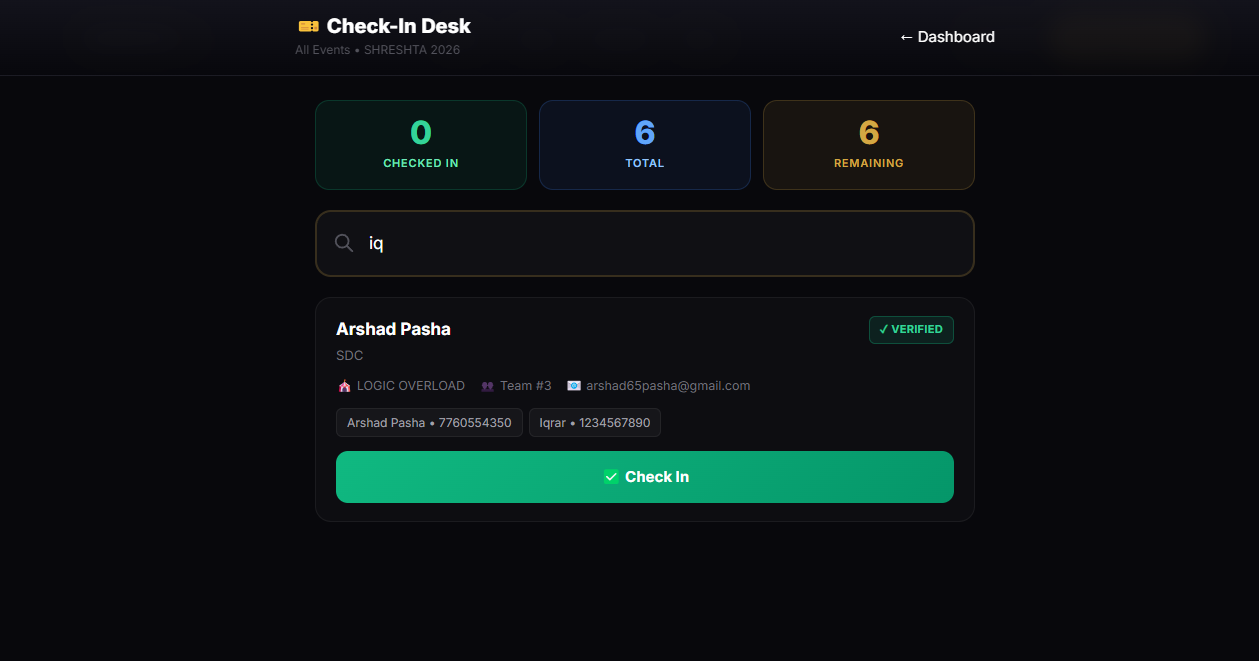
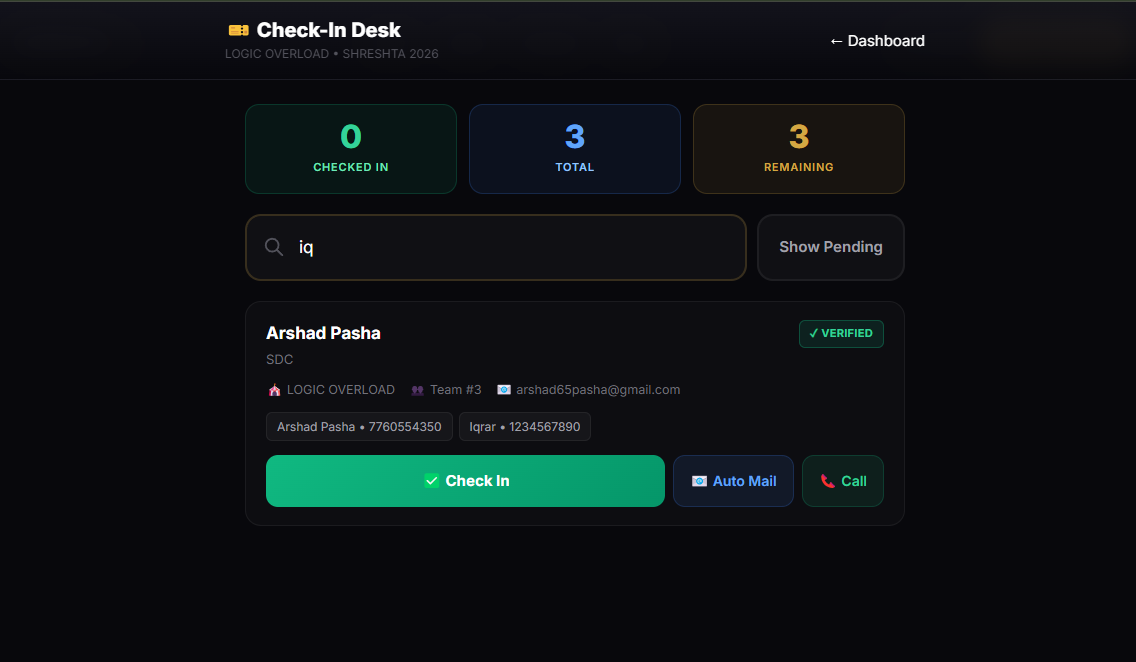
almoret added teh imf

diff --git a/src/app/admin/scanner/page.tsx b/src/app/admin/scanner/page.tsx
@@ -20,6 +20,8 @@ export default function CheckInPage() {
     const [coordEventName, setCoordEventName] = useState<string | null>(null);
     const searchRef = useRef<HTMLInputElement>(null);
     const router = useRouter();
+    const [showUncheckedIn, setShowUncheckedIn] = useState(false);
+    const [sendingEmail, setSendingEmail] = useState<string | null>(null);
 
     // Auth
     useEffect(() => {
@@ -75,21 +77,25 @@ export default function CheckInPage() {
     }, [isAuthenticated]);
 
     // Search filter
-    const filtered = search.length >= 2
-        ? registrations.filter(r => {
-            const q = search.toLowerCase();
-            const memberMatch = r.members?.some(m =>
-                m.name.toLowerCase().includes(q) || m.phone.includes(q)
-            );
-            return (
-                memberMatch ||
-                r.email?.toLowerCase().includes(q) ||
-                r.collegeName?.toLowerCase().includes(q) ||
-                r.eventName?.toLowerCase().includes(q) ||
-                String(r.teamNumber).includes(q)
-            );
-        })
-        : [];
+    const filtered = registrations.filter(r => {
+        if (showUncheckedIn && r.checkedIn) return false;
+
+        if (search.length < 2) {
+            return showUncheckedIn ? true : false;
+        }
+
+        const q = search.toLowerCase();
+        const memberMatch = r.members?.some(m =>
+            m.name.toLowerCase().includes(q) || m.phone.includes(q)
+        );
+        return (
+            memberMatch ||
+            r.email?.toLowerCase().includes(q) ||
+            r.collegeName?.toLowerCase().includes(q) ||
+            r.eventName?.toLowerCase().includes(q) ||
+            String(r.teamNumber).includes(q)
+        );
+    });
 
     // Sort: not checked in first, then by name
     const sorted = [...filtered].sort((a, b) => {
@@ -133,6 +139,30 @@ export default function CheckInPage() {
             });
         } catch (err) {
             console.error("Undo failed:", err);
+        }
+    };
+
+    const handleSendReminder = async (reg: Registration) => {
+        setSendingEmail(reg.id);
+        try {
+            const res = await fetch("/api/send-email", {
+                method: "POST",
+                headers: { "Content-Type": "application/json" },
+                body: JSON.stringify({
+                    type: "reminder",
+                    to: reg.email,
+                    subject: `Urgent Reminder: SHRESHTA 2026 - ${reg.eventName || 'Event'}`,
+                    participantName: reg.members?.[0]?.name || "Participant",
+                    eventName: reg.eventName || 'Event'
+                }),
+            });
+            if (!res.ok) throw new Error("Failed to send");
+            alert("Auto-reminder sent successfully to " + reg.email);
+        } catch (err: any) {
+            console.error(err);
+            alert("Failed to send reminder email. Please ensure Resend API is active.");
+        } finally {
+            setSendingEmail(null);
         }
     };
 
@@ -557,31 +587,50 @@ export default function CheckInPage() {
                         </div>
                     </div>
 
-                    {/* Search */}
-                    <div className="search-box">
-                        <svg className="search-icon" width="22" height="22" fill="none" stroke="currentColor" viewBox="0 0 24 24">
-                            <path strokeLinecap="round" strokeLinejoin="round" strokeWidth={2} d="M21 21l-6-6m2-5a7 7 0 11-14 0 7 7 0 0114 0z" />
-                        </svg>
-                        <input
-                            ref={searchRef}
-                            type="text"
-                            className="search-input"
-                            value={search}
-                            onChange={(e) => setSearch(e.target.value)}
-                            placeholder="Type name, phone, or college..."
-                            autoComplete="off"
-                        />
+                    {/* Search & Actions */}
+                    <div className="search-actions" style={{ display: "flex", gap: "10px", marginBottom: "20px" }}>
+                        <div className="search-box" style={{ flex: 1, margin: 0 }}>
+                            <svg className="search-icon" width="22" height="22" fill="none" stroke="currentColor" viewBox="0 0 24 24">
+                                <path strokeLinecap="round" strokeLinejoin="round" strokeWidth={2} d="M21 21l-6-6m2-5a7 7 0 11-14 0 7 7 0 0114 0z" />
+                            </svg>
+                            <input
+                                ref={searchRef}
+                                type="text"
+                                className="search-input"
+                                value={search}
+                                onChange={(e) => setSearch(e.target.value)}
+                                placeholder="Type name, phone, or college..."
+                                autoComplete="off"
+                            />
+                        </div>
+                        <button
+                            onClick={() => setShowUncheckedIn(!showUncheckedIn)}
+                            style={{
+                                padding: "0 20px",
+                                background: showUncheckedIn ? "rgba(212,168,67,0.15)" : "rgba(255,255,255,0.03)",
+                                color: showUncheckedIn ? "#d4a843" : "#a1a1aa",
+                                border: `2px solid ${showUncheckedIn ? "rgba(212,168,67,0.4)" : "rgba(255,255,255,0.06)"}`,
+                                borderRadius: "16px",
+                                cursor: "pointer",
+                                minWidth: "max-content",
+                                fontWeight: 600,
+                                fontSize: "15px",
+                                transition: "all 0.2s"
+                            }}
+                        >
+                            {showUncheckedIn ? "✓ Pending" : "Show Pending"}
+                        </button>
                     </div>
 
                     {/* Results */}
-                    {search.length < 2 ? (
+                    {search.length < 2 && !showUncheckedIn ? (
                         <div className="search-hint">
-                            Type at least 2 characters to search participants
+                            Type at least 2 characters to search participants or click "Show Pending"
                         </div>
                     ) : sorted.length === 0 ? (
                         <div className="no-results">
                             <span style={{ fontSize: "40px" }}>🔍</span>
-                            <p>No participants found for &quot;{search}&quot;</p>
+                            <p>No participants found.</p>
                         </div>
                     ) : (
                         <div className="results-list">
@@ -638,19 +687,68 @@ export default function CheckInPage() {
                                                 </button>
                                             </>
                                         ) : (
-                                            <button
-                                                className={`checkin-btn ${isVerified ? "primary" : "warning"}`}
-                                                onClick={() => handleCheckIn(reg)}
-                                                disabled={checkingIn === reg.id}
-                                            >
-                                                {checkingIn === reg.id ? (
-                                                    <><div className="spinner-sm" /> Checking In...</>
-                                                ) : isVerified ? (
-                                                    <>✅ Check In</>
-                                                ) : (
-                                                    <>⚠ Check In (Payment Pending)</>
-                                                )}
-                                            </button>
+                                            <div style={{ display: 'flex', gap: '8px', marginTop: '12px' }}>
+                                                <button
+                                                    className={`checkin-btn ${isVerified ? "primary" : "warning"}`}
+                                                    onClick={() => handleCheckIn(reg)}
+                                                    disabled={checkingIn === reg.id}
+                                                    style={{ flex: 1, margin: 0 }}
+                                                >
+                                                    {checkingIn === reg.id ? (
+                                                        <><div className="spinner-sm" /> Checking In...</>
+                                                    ) : isVerified ? (
+                                                        <>✅ Check In</>
+                                                    ) : (
+                                                        <>⚠ Check In <span style={{fontSize: '11px', opacity: 0.8}}>(Payment Pending)</span></>
+                                                    )}
+                                                </button>
+
+                                                <button
+                                                    onClick={() => handleSendReminder(reg)}
+                                                    disabled={sendingEmail === reg.id}
+                                                    style={{
+                                                        padding: "0 16px",
+                                                        background: "rgba(59,130,246,0.1)",
+                                                        color: "#60a5fa",
+                                                        border: "1px solid rgba(59,130,246,0.2)",
+                                                        borderRadius: "12px",
+                                                        display: "flex",
+                                                        alignItems: "center",
+                                                        justifyContent: "center",
+                                                        fontFamily: "inherit",
+                                                        fontSize: "14px",
+                                                        fontWeight: 600,
+                                                        cursor: sendingEmail === reg.id ? "not-allowed" : "pointer",
+                                                        transition: "all 0.2s",
+                                                        opacity: sendingEmail === reg.id ? 0.7 : 1
+                                                    }}
+                                                    title="Send Auto Reminder via Email API"
+                                                >
+                                                    {sendingEmail === reg.id ? "Sending..." : "📧 Auto Mail"}
+                                                </button>
+
+                                                <a
+                                                    href={`tel:${reg.members?.[0]?.phone}`}
+                                                    style={{
+                                                        padding: "0 16px",
+                                                        background: "rgba(16,185,129,0.1)",
+                                                        color: "#34d399",
+                                                        border: "1px solid rgba(16,185,129,0.2)",
+                                                        borderRadius: "12px",
+                                                        display: "flex",
+                                                        alignItems: "center",
+                                                        justifyContent: "center",
+                                                        textDecoration: "none",
+                                                        fontSize: "14px",
+                                                        fontWeight: 600,
+                                                        cursor: "pointer",
+                                                        transition: "all 0.2s"
+                                                    }}
+                                                    title="Call Participant"
+                                                >
+                                                    📞 Call
+                                                </a>
+                                            </div>
                                         )}
                                     </div>
                                 );

diff --git a/src/app/api/send-email/route.ts b/src/app/api/send-email/route.ts
@@ -103,7 +103,7 @@ export async function POST(req: NextRequest) {
                             </div>
                             
                             <div style="background: rgba(212,168,67,0.1); border: 1px solid rgba(212,168,67,0.2); border-radius: 12px; padding: 16px; text-align: center;">
-                                <p style="color: #d4a843; font-weight: 600; margin: 0;">📅 Feb 17, 2026 | ⏰ Reporting: 8:30 AM</p>
+                                <p style="color: #d4a843; font-weight: 600; margin: 0;">📅 May 15, 2026 | ⏰ Reporting: 8:30 AM</p>
                                 <p style="color: #a1a1aa; font-size: 13px; margin: 8px 0 0;">SDC Campus, Hebbal Ring Road, Mysuru</p>
                             </div>
                         </div>
@@ -139,6 +139,35 @@ export async function POST(req: NextRequest) {
                             <p style="color: #a1a1aa;">Thank you for participating in <strong style="color: #d4a843;">${eventName}</strong> at SHRESHTA 2026.</p>
                             <p style="color: #a1a1aa;">Your certificate is attached below:</p>
                             <a href="${certificateUrl}" style="display: inline-block; margin: 20px 0; padding: 14px 32px; background: linear-gradient(135deg, #d4a843, #b88a2e); color: #000; text-decoration: none; border-radius: 10px; font-weight: 700;">Download Certificate</a>
+                        </div>
+                    </div>
+                `,
+            });
+
+            if (error) {
+                return NextResponse.json({ error: error.message }, { status: 400 });
+            }
+
+            return NextResponse.json({ success: true, id: data?.id });
+        }
+
+        if (type === "reminder") {
+            const { to, subject, participantName, eventName } = body;
+
+            const { data, error } = await resend.emails.send({
+                from: FROM_EMAIL,
+                to: [to],
+                subject,
+                html: `
+                    <div style="font-family: 'Segoe UI', sans-serif; max-width: 600px; margin: 0 auto; background: #0a0a0f; color: #e4e4e7; border-radius: 16px; overflow: hidden;">
+                        <div style="background: linear-gradient(135deg, #1a1a2e 0%, #16213e 100%); padding: 32px; text-align: center;">
+                            <h1 style="color: #d4a843; margin: 0;">⏱ Hurry Up!</h1>
+                            <p style="color: #a1a1aa; margin: 8px 0 0;">${eventName} — SHRESHTA 2026</p>
+                        </div>
+                        <div style="padding: 32px; text-align: center;">
+                            <p style="color: #fff; font-size: 18px;">Hi <strong>${participantName}</strong>,</p>
+                            <p style="color: #a1a1aa; margin-top: 16px; font-size: 16px;">We are waiting for you at the <strong style="color: #d4a843;">${eventName}</strong> event.</p>
+                            <p style="color: #a1a1aa; margin-top: 24px; line-height: 1.6;">Please arrive at the venue as soon as possible, as the event is starting soon. Have your QR Code ready for check-in.</p>
                         </div>
                     </div>
                 `,
